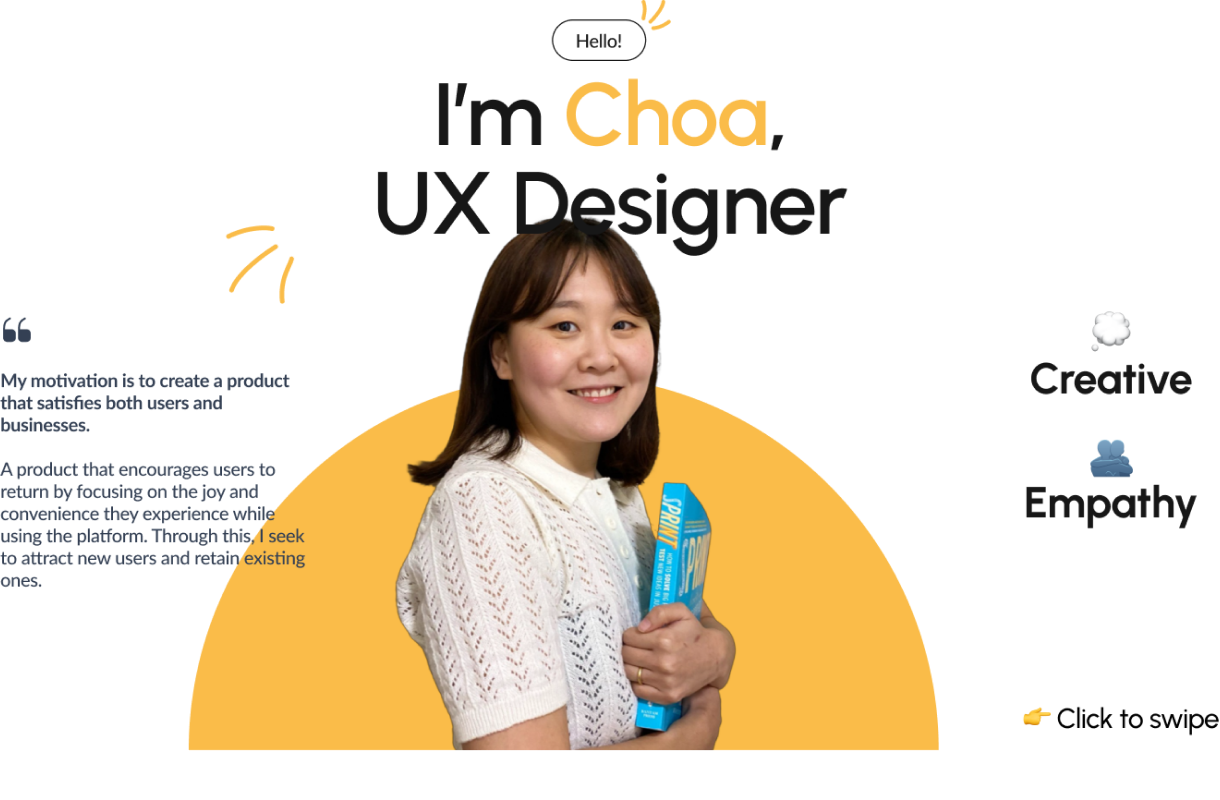
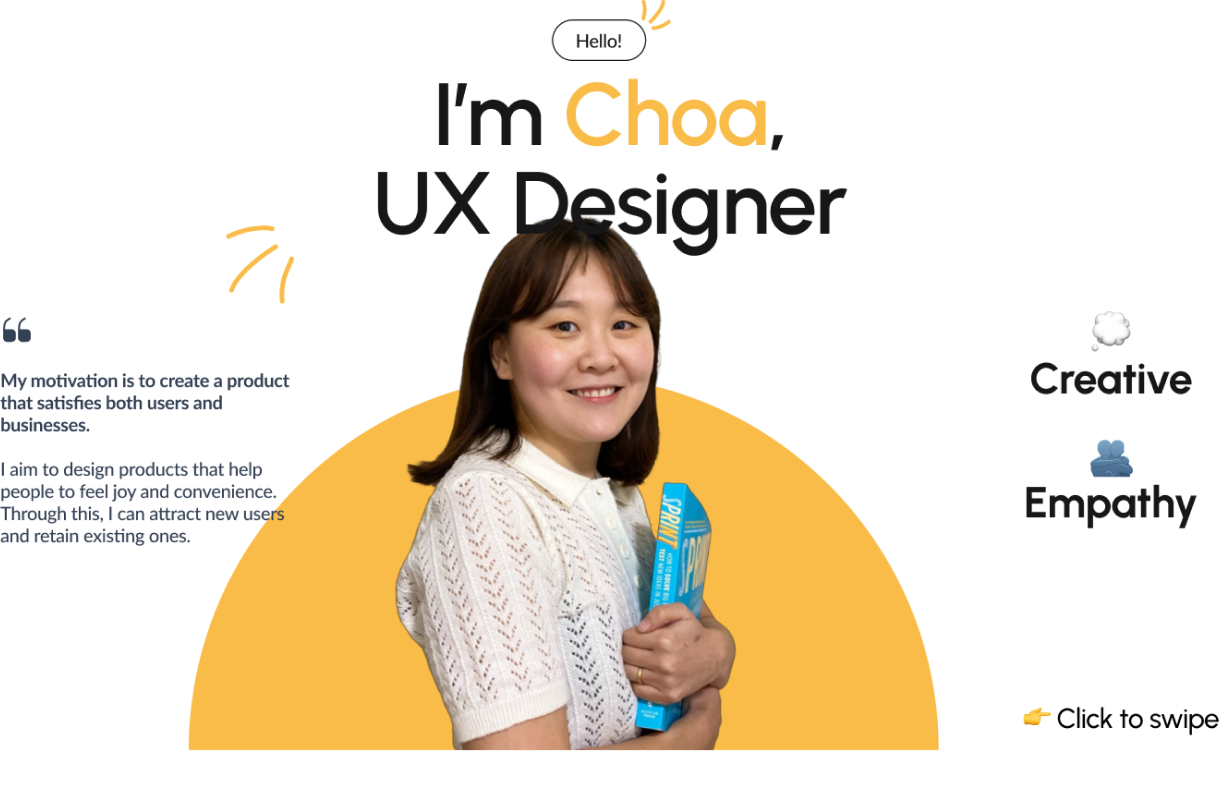
change motivation part

Changed region(s): [[0.0, 0.5625, 0.2492, 0.75]]

diff --git a/about.html b/about.html
@@ -1,135 +1,165 @@
 <!DOCTYPE html>
 <html lang="en">
-
-<head>
-    <meta charset="UTF-8">
-    <meta name="viewport" content="width=device-width, initial-scale=1">
-    <link rel="stylesheet" type="text/css"
-        href="https://cdnjs.cloudflare.com/ajax/libs/normalize/8.0.1/normalize.min.css">
-    <link rel="stylesheet" type="text/css" href="css/styles.css">
-    <link rel="preconnect" href="https://fonts.googleapis.com">
-    <link rel="preconnect" href="https://fonts.gstatic.com" crossorigin>
-    <link href="https://fonts.googleapis.com/css2?family=Lato&display=swap" rel="stylesheet">
-    <script src="https://kit.fontawesome.com/9e6431d435.js" crossorigin="anonymous"></script>
+  <head>
+    <meta charset="UTF-8" />
+    <meta name="viewport" content="width=device-width, initial-scale=1" />
+    <link
+      rel="stylesheet"
+      type="text/css"
+      href="https://cdnjs.cloudflare.com/ajax/libs/normalize/8.0.1/normalize.min.css"
+    />
+    <link rel="stylesheet" type="text/css" href="css/styles.css" />
+    <link rel="preconnect" href="https://fonts.googleapis.com" />
+    <link rel="preconnect" href="https://fonts.gstatic.com" crossorigin />
+    <link
+      href="https://fonts.googleapis.com/css2?family=Lato&display=swap"
+      rel="stylesheet"
+    />
+    <script
+      src="https://kit.fontawesome.com/9e6431d435.js"
+      crossorigin="anonymous"
+    ></script>
     <title>Choa Kim, UX designer</title>
-</head>
+  </head>
 
-<body>
+  <body>
     <header>
-        <div class="navbar">
-            <div class="container">
-                <div class="navtoggle" id="myNavtoggle">
-                    <nav>
-                        <ul class="navigation">
-                            <li><a href="index.html">Home</a></li>
-                            <li><a href="projects.html">Projects</a></li>
-                            <li><a href="about.html">About me</a></li>
-                            <li><a href="contact.html">Contact</a></li>
-                            <li><a href="javascript:void(0);" class="icon" onclick="menuToggle()"><i
-                                        class="fas fa-bars"></i></a></li>
-                            <!-- menu is not showing when it is default -->
-                        </ul>
-                    </nav>
-                </div>
-            </div>
+      <div class="navbar">
+        <div class="container">
+          <div class="navtoggle" id="myNavtoggle">
+            <nav>
+              <ul class="navigation">
+                <li><a href="index.html">Home</a></li>
+                <li><a href="projects.html">Projects</a></li>
+                <li><a href="about.html">About me</a></li>
+                <li><a href="contact.html">Contact</a></li>
+                <li>
+                  <a
+                    href="javascript:void(0);"
+                    class="icon"
+                    onclick="menuToggle()"
+                    ><i class="fas fa-bars"></i
+                  ></a>
+                </li>
+                <!-- menu is not showing when it is default -->
+              </ul>
+            </nav>
+          </div>
         </div>
+      </div>
     </header>
     <main>
-        <!-- about section -->
-        <div id="about-intro">
-            <div class="container">
-                <h1>About me</h1>
-                <div class="row">
-                    <div class="col-lg-6">
-                        <picture>
-                            <img class="about-intro-img" src="img/about-me/profile-400.png" alt="profile-image">
-                        </picture>
-                    </div>
-
-                    <div class="col-lg-6-1">
-                        <p>Hello! 🌟 Annyeonghaseyo (안녕하세요!), which means "hello" in Korean. I moved to England because
-                            of my childhood favourite drama, Doctor Who.
-                        </p>
-                        <p>
-                            My first job in the UK was as a customer service advisor. While working this role, I
-                            discovered that users easily feel frustrated due to a single error message or the placement
-                            of a promotion box. This realisation sparked my interest in user experience design,
-                            prompting me to transition into the role of a product designer. <i>I actively addressed
-                                users'
-                                challenges, reporting approximately 80 issues to various teams, including the product
-                                design
-                                team. One of the suggestions I made was to improve the visibility of the promotion code
-                                box,
-                                either by changing the wording to make it clearer or by using a more noticeable colour
-                                or
-                                button design.</i>
-                        </p>
-                        <p>
-                            My motivation is to create a product that satisfies both users and businesses. I aim to
-                            create a product that encourages users to return by focusing on the joy and convenience they
-                            experience while using the platform. Through this, I seek to attract new users and retain
-                            existing ones.
-                        </p>
-                        <p>
-                            In my free time, I enjoy rewatching "The Lord of the Rings" for the 20 times with my
-                            husband while patting our puppy spaniel, Gimli.
-                        </p>
-                        <a href="img/about-me/cv-choa-kim.pdf" class="my-button">Download my CV</a>
-                    </div>
-                </div>
-            </div>
-        </div>
+      <!-- about section -->
+      <div id="about-intro">
         <div class="container">
-        </div>
-        <!-- skills section -->
-        <div class="about-intro">
-            <div class="container">
-                <h2 id="skills" class="text-align-center">Skills&Tools</h2>
-                <div class="row">
-                    <div class="col-md-6 text-align-center">
-                        <h5 class="skills-title-h5">Skills 👩🏻💻</h5>
-                        <ul class="skills-ul">
-                            <li>User-centre design</li>
-                            <li>WIreframing and Prototyping</li>
-                            <li>User interface design</li>
-                            <li>Design system</li>
-                            <li>User research</li>
-                            <li>Responsive design</li>
-                            <li>Frontend basics</li>
-                        </ul>
-                    </div>
-                    <div class="col-md-6 text-align-center">
-                        <h5 class="skills-title-h5">Tools 🛠</h5>
-                        <ul class="skills-ul">
-                            <li>Figma</li>
-                            <li>Photoshop</li>
-                            <li>Miro</li>
-                            <li>Zoom</li>
-                            <li>Notion</li>
-                            <li>Slack</li>
-                            <li>VScode</li>
-                            <li>Github</li>
-                        </ul>
-                    </div>
-                </div>
+          <h1>About me</h1>
+          <div class="row">
+            <div class="col-lg-6">
+              <picture>
+                <img
+                  class="about-intro-img"
+                  src="img/about-me/profile-400.png"
+                  alt="profile-image"
+                />
+              </picture>
             </div>
+
+            <div class="col-lg-6-1">
+              <p>
+                Hello! 🌟 Annyeonghaseyo (안녕하세요!), which means "hello" in
+                Korean. I moved to England because of my childhood favourite
+                drama, Doctor Who.
+              </p>
+              <p>
+                My first job in the UK was as a customer service advisor. While
+                working this role, I discovered that users easily feel
+                frustrated due to a single error message or the placement of a
+                promotion box. This realisation sparked my interest in user
+                experience design, prompting me to transition into the role of a
+                product designer.
+                <i
+                  >I actively addressed users' challenges, reporting
+                  approximately 80 issues to various teams, including the
+                  product design team. One of the suggestions I made was to
+                  improve the visibility of the promotion code box, either by
+                  changing the wording to make it clearer or by using a more
+                  noticeable colour or button design.</i
+                >
+              </p>
+              <p>
+                My motivation is to create a product that satisfies both users
+                and businesses. I aim to design products that help people to
+                feel joy and convenience. Through this, I can attract new users
+                and retain existing ones.
+              </p>
+              <p>
+                In my free time, I enjoy rewatching "The Lord of the Rings" for
+                the 20 times with my husband while patting our puppy spaniel,
+                Gimli.
+              </p>
+              <a href="img/about-me/cv-choa-kim.pdf" class="my-button"
+                >Download my CV</a
+              >
+            </div>
+          </div>
         </div>
+      </div>
+      <div class="container"></div>
+      <!-- skills section -->
+      <div class="about-intro">
+        <div class="container">
+          <h2 id="skills" class="text-align-center">Skills&Tools</h2>
+          <div class="row">
+            <div class="col-md-6 text-align-center">
+              <h5 class="skills-title-h5">Skills 👩🏻💻</h5>
+              <ul class="skills-ul">
+                <li>User-centre design</li>
+                <li>WIreframing and Prototyping</li>
+                <li>User interface design</li>
+                <li>Design system</li>
+                <li>User research</li>
+                <li>Responsive design</li>
+                <li>Frontend basics</li>
+              </ul>
+            </div>
+            <div class="col-md-6 text-align-center">
+              <h5 class="skills-title-h5">Tools 🛠</h5>
+              <ul class="skills-ul">
+                <li>Figma</li>
+                <li>Photoshop</li>
+                <li>Miro</li>
+                <li>Zoom</li>
+                <li>Notion</li>
+                <li>Slack</li>
+                <li>VScode</li>
+                <li>Github</li>
+              </ul>
+            </div>
+          </div>
+        </div>
+      </div>
     </main>
     <footer id="contact">
-        <div class="container">
-            <hr class="hr-contact">
-            <div style="text-align: right;">
-                <a class="contact-list" href="https://www.linkedin.com/in/choa-kim/">Linkedin</a>
-                <a class="contact-list" href="mailto:choa.linzy@gmail.com">Email me</a>
-            </div>
-            <div class="copywright">
-                <p>Copyright Choa Kim 2023</p>
-            </div>
+      <div class="container">
+        <hr class="hr-contact" />
+        <div style="text-align: right">
+          <a class="contact-list" href="https://www.linkedin.com/in/choa-kim/"
+            >Linkedin</a
+          >
+          <a class="contact-list" href="mailto:choa.linzy@gmail.com"
+            >Email me</a
+          >
         </div>
+        <div class="copywright">
+          <p>Copyright Choa Kim 2023</p>
+        </div>
+      </div>
     </footer>
-        <script src="https://code.jquery.com/jquery-3.3.1.min.js"
-            integrity="sha256-FgpCb/KJQlLNfOu91ta32o/NMZxltwRo8QtmkMRdAu8=" crossorigin="anonymous"></script>
-        <script src="js/scripts.js"></script>
-</body>
-
+    <script
+      src="https://code.jquery.com/jquery-3.3.1.min.js"
+      integrity="sha256-FgpCb/KJQlLNfOu91ta32o/NMZxltwRo8QtmkMRdAu8="
+      crossorigin="anonymous"
+    ></script>
+    <script src="js/scripts.js"></script>
+  </body>
 </html>
